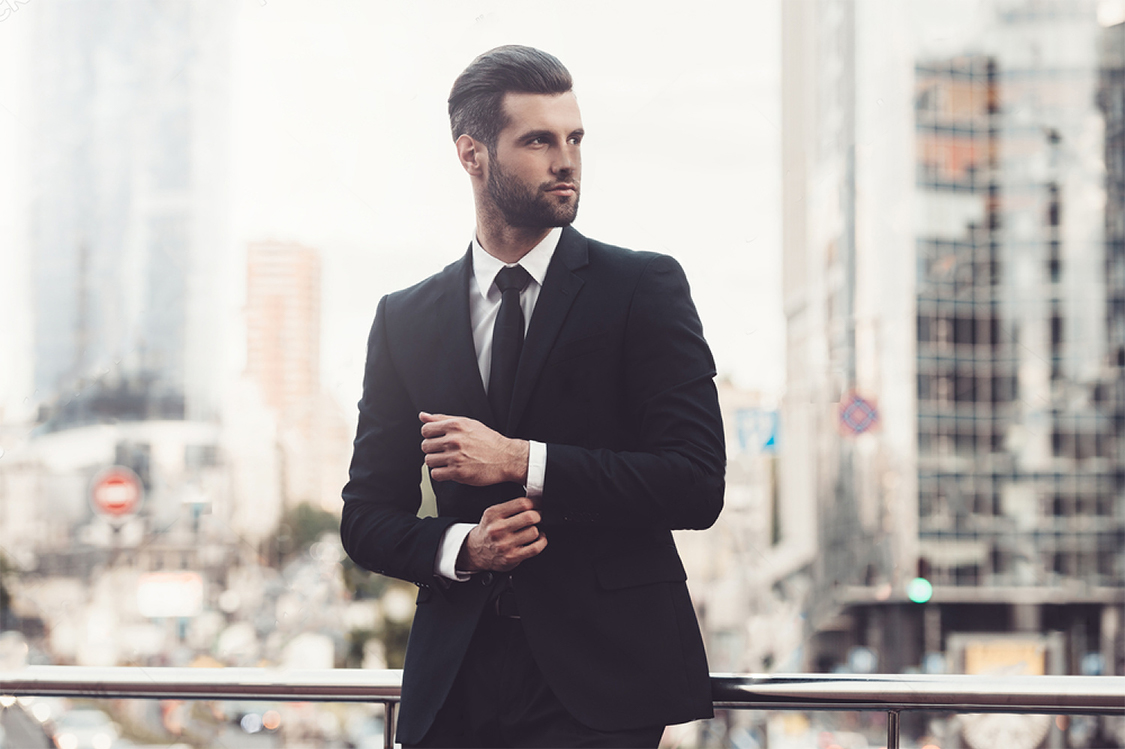
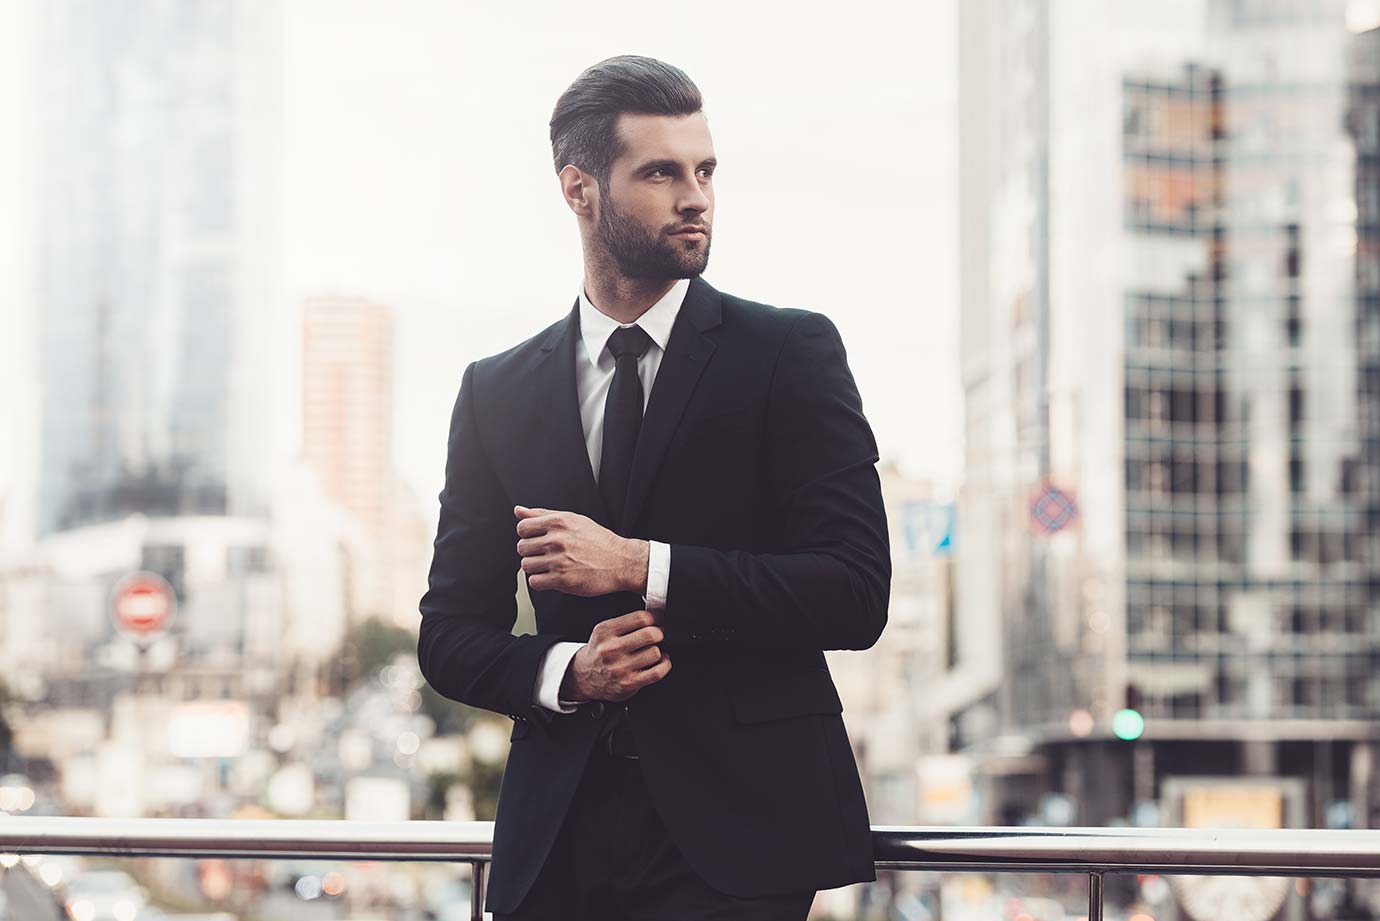
Update, progress 99%

diff --git a/docs/assets/styles/styles-83f76e555e.css b/docs/assets/styles/styles-83f76e555e.css
@@ -1,0 +1,1 @@
+/*! normalize.css v7.0.0 | MIT License | github.com/necolas/normalize.css */html{line-height:1.15;-ms-text-size-adjust:100%;-webkit-text-size-adjust:100%}body{margin:0}article,aside,footer,header,nav,section{display:block}h1{font-size:2em;margin:.67em 0}figcaption,figure,main{display:block}figure{margin:1em 40px}hr{box-sizing:content-box;height:0;overflow:visible}pre{font-family:monospace,monospace;font-size:1em}a{background-color:transparent;-webkit-text-decoration-skip:objects}abbr[title]{border-bottom:none;text-decoration:underline;-webkit-text-decoration:underline dotted;text-decoration:underline dotted}b,strong{font-weight:inherit;font-weight:bolder}code,kbd,samp{font-family:monospace,monospace;font-size:1em}dfn{font-style:italic}mark{background-color:#ff0;color:#000}small{font-size:80%}sub,sup{font-size:75%;line-height:0;position:relative;vertical-align:baseline}sub{bottom:-.25em}sup{top:-.5em}audio,video{display:inline-block}audio:not([controls]){display:none;height:0}img{border-style:none}svg:not(:root){overflow:hidden}button,input,optgroup,select,textarea{font-family:sans-serif;font-size:100%;line-height:1.15;margin:0}button,input{overflow:visible}button,select{text-transform:none}[type=reset],[type=submit],button,html [type=button]{-webkit-appearance:button}[type=button]::-moz-focus-inner,[type=reset]::-moz-focus-inner,[type=submit]::-moz-focus-inner,button::-moz-focus-inner{border-style:none;padding:0}[type=button]:-moz-focusring,[type=reset]:-moz-focusring,[type=submit]:-moz-focusring,button:-moz-focusring{outline:1px dotted ButtonText}fieldset{padding:.35em .75em .625em}legend{box-sizing:border-box;color:inherit;display:table;max-width:100%;padding:0;white-space:normal}progress{display:inline-block;vertical-align:baseline}textarea{overflow:auto}[type=checkbox],[type=radio]{box-sizing:border-box;padding:0}[type=number]::-webkit-inner-spin-button,[type=number]::-webkit-outer-spin-button{height:auto}[type=search]{-webkit-appearance:textfield;outline-offset:-2px}[type=search]::-webkit-search-cancel-button,[type=search]::-webkit-search-decoration{-webkit-appearance:none}::-webkit-file-upload-button{-webkit-appearance:button;font:inherit}details,menu{display:block}summary{display:list-item}canvas{display:inline-block}[hidden],template{display:none}body{font-family:Ubuntu Mono,monospace;color:#333;background-color:#f6f6f6}img,video{max-width:100%;height:auto}*{box-sizing:border-box}a{color:#f6f6f6;text-decoration:none}.large-hero{position:relative;text-align:center;overflow-x:hidden}.large-hero__image{display:block}.large-hero__image--full-width{width:100%}.large-hero__r-black-bar{position:absolute;top:0;right:0;height:100%;width:10px;background-color:#000}.large-hero__call-container{position:absolute;top:70%;left:50%;-webkit-transform:translateX(-50%);transform:translateX(-50%)}.large-hero__text-content{position:relative;display:inline-block;z-index:2;width:280px;border:2.38px solid #f6f6f6}@media (min-width:530px){.large-hero__text-content{width:465px}}@media (min-width:1010px){.large-hero__text-content{width:704px}}.large-hero__text-content--shadow{position:relative;width:277px;top:-31px;left:5px;z-index:1;box-shadow:inset 0 0 2px 1px rgba(0,0,1,.75),0 0 2px 1px rgba(0,0,1,.75);padding:2px 0}@media (min-width:530px){.large-hero__text-content--shadow{width:463px;top:-51px;left:6px}}@media (min-width:1010px){.large-hero__text-content--shadow{width:701px;top:-82px;left:8px;box-shadow:inset 0 0 3px 2px rgba(0,0,1,.75),0 0 3px 2px rgba(0,0,1,.75)}}.large-hero__text-content--shadow h1{visibility:hidden;font-size:1.2rem}@media (min-width:530px){.large-hero__text-content--shadow h1{font-size:2.2rem}}@media (min-width:1010px){.large-hero__text-content--shadow h1{font-size:3.8rem}}.large-hero__title{position:relative;margin:0;font-size:1.3rem;-webkit-transform:scaleY(1.2);transform:scaleY(1.2);font-weight:400;letter-spacing:2px;color:#f6f6f6;text-transform:uppercase;text-shadow:1.778px -1.778px 1px rgba(0,0,1,.75)}@media (min-width:530px){.large-hero__title{font-size:2.28rem;text-shadow:4.278px -3.278px 1px rgba(0,0,1,.75)}}@media (min-width:1010px){.large-hero__title{font-size:3.9rem;text-shadow:5.778px -4.778px 3px rgba(0,0,1,.75)}}.wrapper{overflow:hidden;padding-left:18px;padding-right:18px;max-width:1236px;margin-left:auto;margin-right:auto}.wrapper--medium{max-width:976px}.wrapper--narrow{max-width:470px}.wrapper .wrapper{padding-left:0;padding-right:0}.wrapper--b-margin{margin-bottom:1rem}@media (min-width:530px){.wrapper--b-margin{margin-bottom:3.875rem}}.wrapper--no-padding-until-medium{padding-left:0;padding-right:0}@media (min-width:800px){.wrapper--no-padding-until-medium{padding-left:18px;padding-right:18px}}.wrapper--no-padding-until-large{padding-left:0;padding-right:0}@media (min-width:1010px){.wrapper--no-padding-until-large{padding-left:18px;padding-right:18px}}.wrapper--no-sides-wrap-until-medium{padding:0 0 24px}@media (min-width:800px){.wrapper--no-sides-wrap-until-medium{padding:0 18px}}.wrapper--no-wrap-until-large{padding:0}@media (min-width:1010px){.wrapper--no-wrap-until-large{padding:0 18px}}.page-section{padding-top:2.75rem;padding-bottom:3.75rem}.page-section__o-firmie,.page-section__testimonials{background-color:#000;box-shadow:0 0 3.5px 3.5px rgba(0,0,0,.35)}.headline{position:relative;padding-bottom:.625rem;margin:0 auto 90px;width:140px;font-size:1.425rem;border-bottom:1px solid #f6f6f6;color:#f6f6f6}@media (min-width:800px){.headline{margin:0 auto 120px;padding-bottom:.625rem;width:190px;font-size:2.125rem}}.headline--black{color:#000;border-bottom:1px solid #000}.headline--centered{text-align:center}.headline--light{font-weight:400}.headline--uppercase{text-transform:uppercase;font-family:Lato,sans-serif;font-weight:700;letter-spacing:4px}.row:after{content:"";clear:both;display:table}.row__relative{position:relative}.row--gutters{margin-right:-120px}.row--gutters>div{padding-right:120px}@media (min-width:800px){.row--gutters{margin-right:-50px}.row--gutters>div{padding-right:50px}}.row--gutters-small{margin-right:0}.row--gutters-small>div{padding-right:0}@media (min-width:530px){.row__small-4{width:33.33%;float:left}}@media (min-width:800px){.row__medium-4{width:33.33%;float:left}.row__medium-6{width:50%;float:left}.row__relative{position:relative}}@media (min-width:1010px){.row__large-6{width:50%;float:left}.row__stores--p-bottom-at-large{margin-bottom:165px}.row__stores--mt-large{margin-top:2px}.row__stores--mb-large{margin-bottom:2px}}@media (min-width:800px){.flexbox .row--equal-height-at-medium{display:-webkit-box;display:-ms-flexbox;display:flex}}.flexbox .row--equal-height-at-medium>div{float:none;display:-webkit-box;display:-ms-flexbox;display:flex}.generic-content-container{text-align:center;font-family:Lato,sans-serif}.testimonial{position:relative;background-color:#f6f6f6;padding:10px 0;width:90%;margin:0 auto 30px}@media (min-width:530px){.testimonial{padding:13px 0;margin-bottom:70px}}@media (min-width:800px){.testimonial{padding:15px 0;margin-bottom:0}}@media (min-width:1010px){.testimonial{padding:15px 0;margin-bottom:0}}.testimonial__black{position:relative;display:inline-block;width:94%;background-color:#000;z-index:1;box-shadow:0 0 12.15px 2.85px rgba(0,0,1,.45)}@media (min-width:530px){.testimonial__black{width:96%}}@media (min-width:800px){.testimonial__black{margin:0 15px;height:100%;width:auto}}@media (min-width:1010px){.testimonial__black{margin:0 15px;height:100%;width:auto}}.testimonial__content{position:relative;color:#f6f6f6;padding:0 30px;height:100%}.testimonial__text{margin-top:0;padding-top:30px;padding-bottom:200px;font-size:.878rem;letter-spacing:1px;line-height:1.9}.testimonial__name,.testimonial__text{font-family:Ubuntu Mono,monospace;font-weight:300;text-align:left}.testimonial__name{position:absolute;max-width:137px;margin-bottom:0;left:30px;bottom:32px;font-size:1rem}@media (min-width:800px){.testimonial__name{left:50%;-webkit-transform:translateX(-50%);transform:translateX(-50%)}}@media (min-width:1010px){.testimonial__name{left:30px;-webkit-transform:translateX(0);transform:translateX(0)}}.testimonial__photo{position:absolute;right:30px;margin-top:-30px;bottom:30px}@media (min-width:530px){.testimonial__photo{margin-left:135px}}@media (min-width:800px){.testimonial__photo{bottom:70px;margin:0;right:auto;left:50%;-webkit-transform:translateX(-50%);transform:translateX(-50%)}}@media (min-width:1010px){.testimonial__photo{bottom:30px;margin-top:-30px;right:30px;left:auto;-webkit-transform:translateX(0);transform:translateX(0)}}.testimonial__photo img{display:block;width:90px;border-radius:50%}.testimonial__photo--shadow{position:absolute;left:0;width:100%;height:100%;bottom:0;box-shadow:inset 0 0 5px 1px #000;border-radius:50%}.testimonial--last{margin-bottom:0}.icon{background-image:url(../../assets/images/sprites/sprite-b2f1a5f1.svg);display:inline-block;margin:0 auto}.no-svg .icon{background-image:url(../../assets/images/sprites/sprite-b2f1a5f1.png)}.icon--facebook{width:190px;height:62px;background-position:0 31.38121546961326%}.icon--facebook-mini{width:25px;height:25px;background-position:96.84684684684684% 26.05504587155963%}.icon--googleplus{width:190px;height:62px;background-position:0 65.6353591160221%}.icon--googleplus-mini{width:25px;height:24.2px;background-position:85.58558558558559% 37.43144424131627%}.icon--instagram{width:190px;height:62px;background-position:0 99.88950276243094%}.icon--instagram-mini{width:25px;height:25.1px;background-position:85.58558558558559% 26.06700321248279%}.icon--logo{width:247px;height:56.8px;background-position:0 0}.site-footer__text{font-family:Lato,sans-serif;font-size:.9rem;padding:30px 0;margin:0 auto;font-variant:small-caps;font-weight:400}@media (min-width:800px){.site-footer__text{padding:40px 0}}.site-header{width:100%;height:66px;position:relative;z-index:2;background-color:#000;font-size:.875rem;text-transform:uppercase;letter-spacing:.09375rem;box-shadow:0 3px 3px 0 rgba(0,0,0,.4)}.site-header__menu-content{position:relative;visibility:hidden;height:35px;opacity:0;z-index:-1;top:50px;text-align:center;transition:all .3s ease-in-out}@media (min-width:530px){.site-header__menu-content{top:60px}}.site-header__menu-content--is-visible{visibility:visible;opacity:1;z-index:0;height:169px;top:69px;background-color:#000;text-align:center}@media (min-width:530px){.site-header__menu-content--is-visible{height:90px;top:60px}}@media (min-width:800px){.site-header__menu-content{visibility:visible;padding:23px 0;top:0;opacity:1;margin-top:0;transition:none;z-index:0;background-color:transparent}}.site-header__menu-content ul{padding:15px 0 60px}@media (min-width:530px){.site-header__menu-content ul{padding-top:15px;padding-bottom:60px}}.site-header__menu-icon{width:20px;height:19px;position:absolute;z-index:10;top:12px;right:15px;cursor:pointer}.site-header__menu-icon:before{content:"";top:0;-webkit-transform-origin:0 0;transform-origin:0 0;transition:-webkit-transform .3s ease-out;transition:transform .3s ease-out;transition:transform .3s ease-out,-webkit-transform .3s ease-out}.site-header__menu-icon:before,.site-header__menu-icon__middle{position:absolute;left:0;width:20px;height:3px;background-color:#fff}.site-header__menu-icon__middle{top:8px;transition:all .3s ease-out;-webkit-transform-origin:0 50%;transform-origin:0 50%}.site-header__menu-icon:after{position:absolute;content:"";bottom:0;left:0;width:20px;height:3px;background-color:#fff;-webkit-transform-origin:0 100%;transform-origin:0 100%;transition:-webkit-transform .3s ease-out;transition:transform .3s ease-out;transition:transform .3s ease-out,-webkit-transform .3s ease-out}@media (min-width:800px){.site-header__menu-icon{display:none}}.site-header__menu-icon--close-x:before{-webkit-transform:rotate(45deg) scaleX(1.25);transform:rotate(45deg) scaleX(1.25)}.site-header__menu-icon--close-x .site-header__menu-icon__middle{opacity:0;-webkit-transform:scaleX(0);transform:scaleX(0)}.site-header__menu-icon--close-x:after{-webkit-transform:rotate(-45deg) scaleX(1.25) translateY(1px);transform:rotate(-45deg) scaleX(1.25) translateY(1px)}.site-header__btn-container{position:relative;float:right}.site-header__logo{position:relative;text-align:center;-webkit-transform:scale(.9);transform:scale(.9);top:5px}@media (min-width:800px){.site-header__logo{float:left;color:#fff}.site-header__logo div{left:auto;-webkit-transform:translateX(0);transform:translateX(0);width:auto;top:-5px}}.site-header__logo:after{content:"";clear:both;display:table}.site-header__logo__text{text-indent:-9999px}.site-header__logo__graphic,.site-header__logo__text{position:absolute;left:50%;-webkit-transform:translateX(-50%);transform:translateX(-50%)}.site-header__logo__graphic{width:75%}.site-header__logo__graphic img{position:relative;height:66px}@media (min-width:800px){.site-header__logo__graphic{position:relative}}.primary-nav li:first-child{padding-top:0}@media (min-width:800px){.primary-nav li:first-child{padding-top:5px}}.primary-nav li{padding-top:10px}@media (min-width:530px){.primary-nav li{display:inline-block;padding-right:25px}}@media (min-width:800px){.primary-nav li{padding-top:5px;float:right;list-style:none}}.primary-nav a{font-size:.875rem}.primary-nav ul{margin:0;margin-top:-4px}.primary-nav ul:after{content:"";clear:both;display:table}@media (min-width:800px){.primary-nav ul{padding:0}}.reveal-item{visibility:hidden;opacity:0;-webkit-transform:scale(.8);transform:scale(.8);transition:all .7s ease-in-out}.reveal-item--is-visible{visibility:visible;-webkit-transform:scale(1);transform:scale(1);opacity:1}.modal,.social-icons{display:none}@media (min-width:800px){.social-icons{display:block;position:fixed;top:40%;left:0;z-index:3}.social-icons--background{position:relative;width:30px;height:30px;margin-bottom:6px;background-color:#f6f6f6;box-shadow:0 0 3px 0 #000;transition:all .3s ease-in-out}.social-icons--background:hover{width:50px}.social-icons--background:hover .social-icons__image{left:65%;-webkit-transform:translate(-50%,-50%) scale(1.2);transform:translate(-50%,-50%) scale(1.2)}.social-icons__image{position:relative;border-radius:5px;left:50%;top:50%;-webkit-transform:translate(-50%,-50%);transform:translate(-50%,-50%);transition:all .3s ease-in-out}}.get-in-touch--icon-responsivness{-webkit-transform:scale(.7);transform:scale(.7)}@media (min-width:530px){.get-in-touch--icon-responsivness{-webkit-transform:scale(.7);transform:scale(.7)}}@media (min-width:800px){.get-in-touch--icon-responsivness{-webkit-transform:scale(1);transform:scale(1)}}.get-in-touch--icon-shadow{box-shadow:0 0 2px 2px rgba(0,0,0,.35)}.get-in-touch--icon-m-bottom{margin-bottom:15px}@media (min-width:530px){.get-in-touch--icon-m-bottom{margin-bottom:0}}.get-in-touch--contact-info{padding-top:70px;font-size:1rem;letter-spacing:2px;text-transform:uppercase;font-weight:400}@media (min-width:800px){.get-in-touch--contact-info{font-size:1.275rem}}.o-firmie,.o-firmie__animation-container{position:relative}.o-firmie__text{position:absolute;z-index:4;display:none;top:50%;left:50%;-webkit-transform:translateX(-50%) translateY(-50%);transform:translateX(-50%) translateY(-50%);color:#f6f6f6;max-width:600px;min-width:200px;font-size:.725rem;letter-spacing:1px;line-height:1.85;font-family:Lato,sans-serif;text-transform:uppercase;text-align:center;font-weight:400}@media (min-width:800px){.o-firmie__text{display:block}}.o-firmie__text--short{display:block;font-size:.45rem}@media (min-width:800px){.o-firmie__text--short{display:none}}.o-firmie__video_frame{position:absolute;top:0;z-index:3;width:100%;height:100%}.o-firmie__video_frame--shadow{box-shadow:inset 0 0 10px 10px #000}.o-firmie__video_frame--black-screen{background-color:#000;opacity:.5}.o-firmie--visible-until-medium{display:block}@media (min-width:800px){.o-firmie--visible-until-medium{display:none}}.o-firmie--hidden-until-medium{display:none}@media (min-width:800px){.o-firmie--hidden-until-medium{display:block}}.stores__paragraph__container{position:relative;line-height:1.875;padding-bottom:50px}.stores__paragraph__container p{margin-bottom:0;margin-top:0;font-variant:small-caps}@media (min-width:1010px){.stores__paragraph__container{top:80px}}.stores__paragraph__city-name{position:relative;font-size:1.02rem;text-transform:uppercase;padding-bottom:14px;margin-bottom:0}.stores__paragraph__description{font-size:.828rem;letter-spacing:2px}.stores__paragraph__image{position:relative;display:block;width:100%}.stores__paragraph__image--right{margin-bottom:70px}@media (min-width:1010px){.stores__paragraph__image--right{margin-bottom:0}}@media (min-width:1010px){.stores__paragraph__image{max-width:496px}}.stores__paragraph__image--shadow{position:absolute;width:100%;height:100%;top:0;outline:2px solid #000;box-shadow:inset 0 0 3px 3px rgba(0,0,1,.4)}@media (min-width:1010px){.stores__paragraph__image--shadow{max-width:496px}}.stores__paragraph--visible-until-large{display:block}@media (min-width:1010px){.stores__paragraph--visible-until-large{display:none}}.stores__paragraph--hidden-until-large{display:none}@media (min-width:1010px){.stores__paragraph--hidden-until-large{display:block}}.go-top-arrow{position:fixed;visibility:hidden;opacity:0;z-index:9999;top:90%;right:15px;width:50px;height:50px;background-color:#e6dfd5;transition:all .5s ease-in-out,background-color .1s ease-in-out;border-radius:20%}.go-top-arrow:before{content:"";left:-8px;background-color:#fff;-webkit-transform-origin:top right;transform-origin:top right;-webkit-transform:rotate(315deg);transform:rotate(315deg)}.go-top-arrow:before,.go-top-arrow__right-bar{position:absolute;top:7px;width:33px;height:10px}.go-top-arrow__right-bar{left:25px;background-color:#000;-webkit-transform-origin:top left;transform-origin:top left;-webkit-transform:rotate(45deg);transform:rotate(45deg)}.go-top-arrow:hover{background-color:#c6b69f}.arrow--visible{visibility:visible;opacity:1}

diff --git a/docs/index.html b/docs/index.html
@@ -8,7 +8,7 @@
   <title>Gentleman - Moda Męska</title>
   <meta name="keywords" content="Garnitury, moda, moda męska, mężczyzna">
   <meta name="description" content="Nowoczesne wzornictwo, perfekcyjne wykonanie i najlepsze tkaniny to główne cechy charakteryzujące salony GENTLEMAN. Zapraszamy">
-  <link rel="stylesheet" href="assets/styles/styles-89b519c276.css"/>
+  <link rel="stylesheet" href="assets/styles/styles-83f76e555e.css"/>
   <script src="assets/scripts/Vendor-e4d659404d.js"></script>
 </head>
 <body>
@@ -17,7 +17,7 @@
       <div class="site-header__logo">
         <div class="site-header__logo__text">GENTLEMAN - Moda Męska</div>        
         <div class="site-header__logo__graphic">
-          <img src="assets/images/logo/gentleman-logo.jpg" alt="logo">
+          <span class="icon icon--logo"></span>
         </div>
       </div>
 
@@ -41,10 +41,10 @@
 
   <div class="large-hero">
     <picture>
-      <source srcset="assets/images/landingPage/suit--large.jpg 1500w" media="(min-width: 1380px)">
-      <source srcset="assets/images/landingPage/suit--medium.jpg 1125w" media="(min-width: 800px)">
-      <source srcset="assets/images/landingPage/suit-vertical--small.jpg 675w" media="(min-width: 640px)">
-      <img class="large-hero__image large-hero__image--full-width" srcset="assets/images/landingPage/suit-vertical--smaller.jpg 450w" alt="Moda męska. Zdjęcie przedstawiające modela, który ma na sobie czarny garnitur, na tle miasta.">
+      <source srcset="assets/images/landingPage/suit--large.jpg 1920w, assets/images/landingPage/suit--large-hi-dpi.jpg 3840w" media="(min-width: 1380px)">
+      <source srcset="assets/images/landingPage/suit--medium.jpg 1380w, assets/images/landingPage/suit--medium-hi-dpi.jpg 2760w" media="(min-width: 800px)">
+      <source srcset="assets/images/landingPage/suit--small.jpg 990w, assets/images/landingPage/suit--small-hi-dpi.jpg 1980w" media="(min-width: 640px)">
+      <img class="large-hero__image large-hero__image--full-width" srcset="assets/images/landingPage/suit--smaller.jpg 640w, assets/images/landingPage/suit--smaller-hi-dpi.jpg 1280w" alt="Moda męska. Zdjęcie przedstawiające modela, który ma na sobie czarny garnitur, na tle miasta.">
     </picture>    
     <div class="large-hero__call-container">
       <div class="large-hero__text-content">

diff --git a/app/temp/styles/styles.css b/app/temp/styles/styles.css
@@ -1025,50 +1025,69 @@ a{
 /*Do not edit modules/_sprite directly as it is generated automatically by Gulp
 Instead edit gulp/templates/sprite.css*/
 
+/*Web*/
+
 .icon{
-			background-image: url('../../assets/images/sprites/sprite-cf4726a9.svg');
+			background-image: url('../../assets/images/sprites/sprite-b2f1a5f1.svg');
 			display: inline-block;
 			margin: 0 auto;
 		}
 
 .no-svg .icon{
-			background-image: url('../../assets/images/sprites/sprite-cf4726a9.png');			
+			background-image: url('../../assets/images/sprites/sprite-b2f1a5f1.png');			
 		}
+
+/*Local*/
+
+/*.icon{
+			background-image: url('/assets/images/sprites/sprite-b2f1a5f1.svg');
+			display: inline-block;
+			margin: 0 auto;
+		}
+		.no-svg .icon{
+			background-image: url('/assets/images/sprites/sprite-b2f1a5f1.png');			
+		}*/
 
 .icon--facebook {		
 		width: 190px;
 		height: 62px;		
-		background-position: 0 0;		
+		background-position: 0 31.38121546961326%;		
 	}
 
 .icon--facebook-mini {		
 		width: 25px;
 		height: 25px;		
-		background-position: 100% 15.590062111801242%;		
+		background-position: 96.84684684684684% 26.05504587155963%;		
 	}
 
 .icon--googleplus {		
 		width: 190px;
 		height: 62px;		
-		background-position: 0 50%;		
+		background-position: 0 65.6353591160221%;		
 	}
 
 .icon--googleplus-mini {		
 		width: 25px;
 		height: 24.2px;		
-		background-position: 100% 30.964153275648947%;		
+		background-position: 85.58558558558559% 37.43144424131627%;		
 	}
 
 .icon--instagram {		
 		width: 190px;
 		height: 62px;		
-		background-position: 0 100%;		
+		background-position: 0 99.88950276243094%;		
 	}
 
 .icon--instagram-mini {		
 		width: 25px;
 		height: 25.1px;		
-		background-position: 100% 0;		
+		background-position: 85.58558558558559% 26.06700321248279%;		
+	}
+
+.icon--logo {		
+		width: 247px;
+		height: 56.8px;		
+		background-position: 0 0;		
 	}
 
 .site-footer__text{

diff --git a/app/assets/styles/modules/_sprite.css b/app/assets/styles/modules/_sprite.css
@@ -1,47 +1,63 @@
 /*Do not edit modules/_sprite directly as it is generated automatically by Gulp
 Instead edit gulp/templates/sprite.css*/
 
+		/*Web*/
 		.icon{
-			background-image: url('../../assets/images/sprites/sprite-cf4726a9.svg');
+			background-image: url('../../assets/images/sprites/sprite-b2f1a5f1.svg');
 			display: inline-block;
 			margin: 0 auto;
 		}
 		.no-svg .icon{
-			background-image: url('../../assets/images/sprites/sprite-cf4726a9.png');			
+			background-image: url('../../assets/images/sprites/sprite-b2f1a5f1.png');			
 		}
+		/*Local*/
+		/*.icon{
+			background-image: url('/assets/images/sprites/sprite-b2f1a5f1.svg');
+			display: inline-block;
+			margin: 0 auto;
+		}
+		.no-svg .icon{
+			background-image: url('/assets/images/sprites/sprite-b2f1a5f1.png');			
+		}*/
 
 	.icon--facebook {		
 		width: 190px;
 		height: 62px;		
-		background-position: 0 0;		
+		background-position: 0 31.38121546961326%;		
 	}
 
 	.icon--facebook-mini {		
 		width: 25px;
 		height: 25px;		
-		background-position: 100% 15.590062111801242%;		
+		background-position: 96.84684684684684% 26.05504587155963%;		
 	}
 
 	.icon--googleplus {		
 		width: 190px;
 		height: 62px;		
-		background-position: 0 50%;		
+		background-position: 0 65.6353591160221%;		
 	}
 
 	.icon--googleplus-mini {		
 		width: 25px;
 		height: 24.2px;		
-		background-position: 100% 30.964153275648947%;		
+		background-position: 85.58558558558559% 37.43144424131627%;		
 	}
 
 	.icon--instagram {		
 		width: 190px;
 		height: 62px;		
-		background-position: 0 100%;		
+		background-position: 0 99.88950276243094%;		
 	}
 
 	.icon--instagram-mini {		
 		width: 25px;
 		height: 25.1px;		
-		background-position: 100% 0;		
+		background-position: 85.58558558558559% 26.06700321248279%;		
+	}
+
+	.icon--logo {		
+		width: 247px;
+		height: 56.8px;		
+		background-position: 0 0;		
 	}

diff --git a/app/index.html b/app/index.html
@@ -21,7 +21,7 @@
       <div class="site-header__logo">
         <div class="site-header__logo__text">GENTLEMAN - Moda Męska</div>        
         <div class="site-header__logo__graphic">
-          <img src="assets/images/logo/gentleman-logo.jpg" alt="logo">
+          <span class="icon icon--logo"></span>
         </div>
       </div>
 
@@ -45,10 +45,10 @@
 
   <div class="large-hero">
     <picture>
-      <source srcset="assets/images/landingPage/suit--large.jpg 1500w" media="(min-width: 1380px)">
-      <source srcset="assets/images/landingPage/suit--medium.jpg 1125w" media="(min-width: 800px)">
-      <source srcset="assets/images/landingPage/suit-vertical--small.jpg 675w" media="(min-width: 640px)">
-      <img class="large-hero__image large-hero__image--full-width" srcset="assets/images/landingPage/suit-vertical--smaller.jpg 450w" alt="Moda męska. Zdjęcie przedstawiające modela, który ma na sobie czarny garnitur, na tle miasta.">
+      <source srcset="assets/images/landingPage/suit--large.jpg 1920w, assets/images/landingPage/suit--large-hi-dpi.jpg 3840w" media="(min-width: 1380px)">
+      <source srcset="assets/images/landingPage/suit--medium.jpg 1380w, assets/images/landingPage/suit--medium-hi-dpi.jpg 2760w" media="(min-width: 800px)">
+      <source srcset="assets/images/landingPage/suit--small.jpg 990w, assets/images/landingPage/suit--small-hi-dpi.jpg 1980w" media="(min-width: 640px)">
+      <img class="large-hero__image large-hero__image--full-width" srcset="assets/images/landingPage/suit--smaller.jpg 640w, assets/images/landingPage/suit--smaller-hi-dpi.jpg 1280w" alt="Moda męska. Zdjęcie przedstawiające modela, który ma na sobie czarny garnitur, na tle miasta.">
     </picture>    
     <div class="large-hero__call-container">
       <div class="large-hero__text-content">

diff --git a/gulp/templates/sprite.css b/gulp/templates/sprite.css
@@ -3,6 +3,7 @@ Instead edit gulp/templates/sprite.css*/
 
 {{#shapes}}
 	{{#first}}
+		/*Web*/
 		.icon{
 			background-image: url('../../assets/images/sprites/{{{sprite}}}');
 			display: inline-block;
@@ -11,6 +12,15 @@ Instead edit gulp/templates/sprite.css*/
 		.no-svg .icon{
 			background-image: url('../../assets/images/sprites/{{#replaceSvgWithPng}}{{{sprite}}}{{/replaceSvgWithPng}}');			
 		}
+		/*Local*/
+		/*.icon{
+			background-image: url('/assets/images/sprites/{{{sprite}}}');
+			display: inline-block;
+			margin: 0 auto;
+		}
+		.no-svg .icon{
+			background-image: url('/assets/images/sprites/{{#replaceSvgWithPng}}{{{sprite}}}{{/replaceSvgWithPng}}');			
+		}*/
 	{{/first}}
 
 	.icon--{{base}} {		
